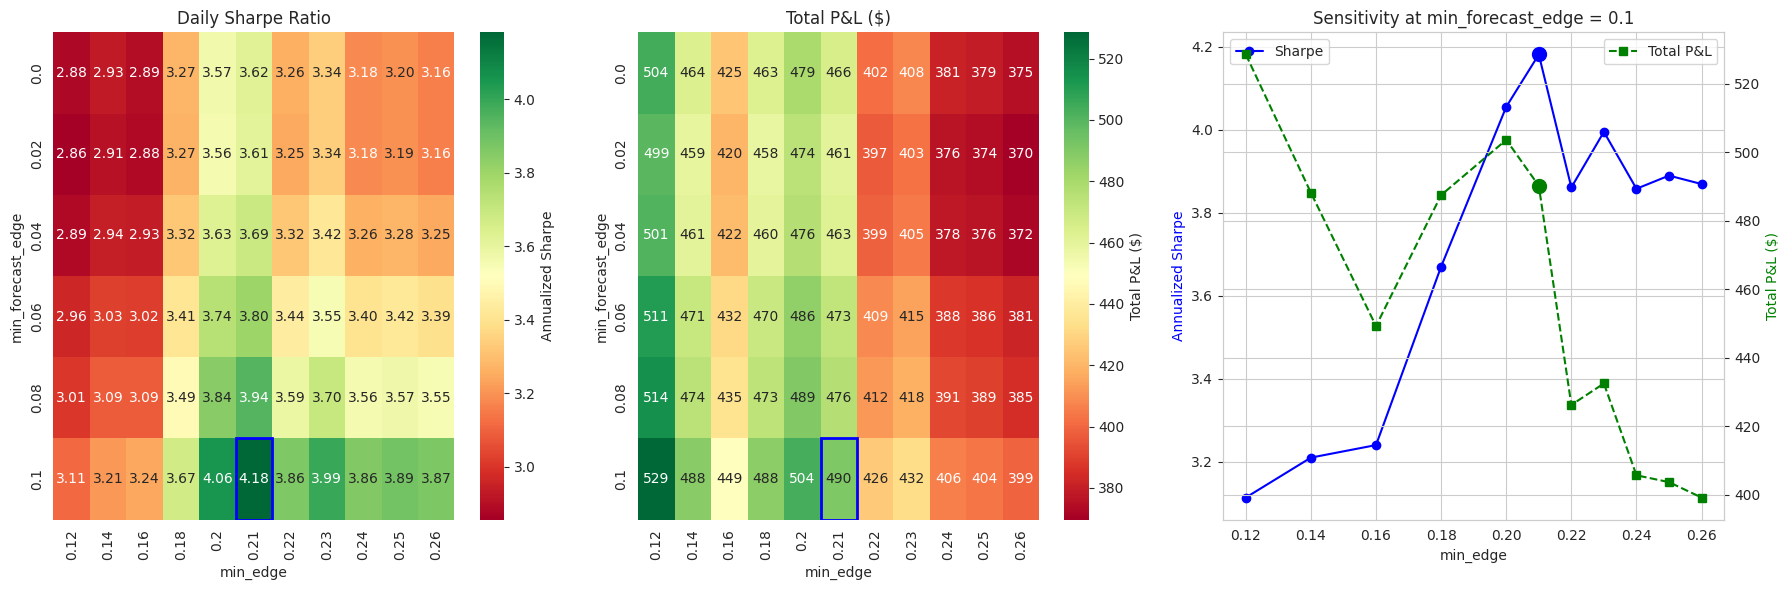
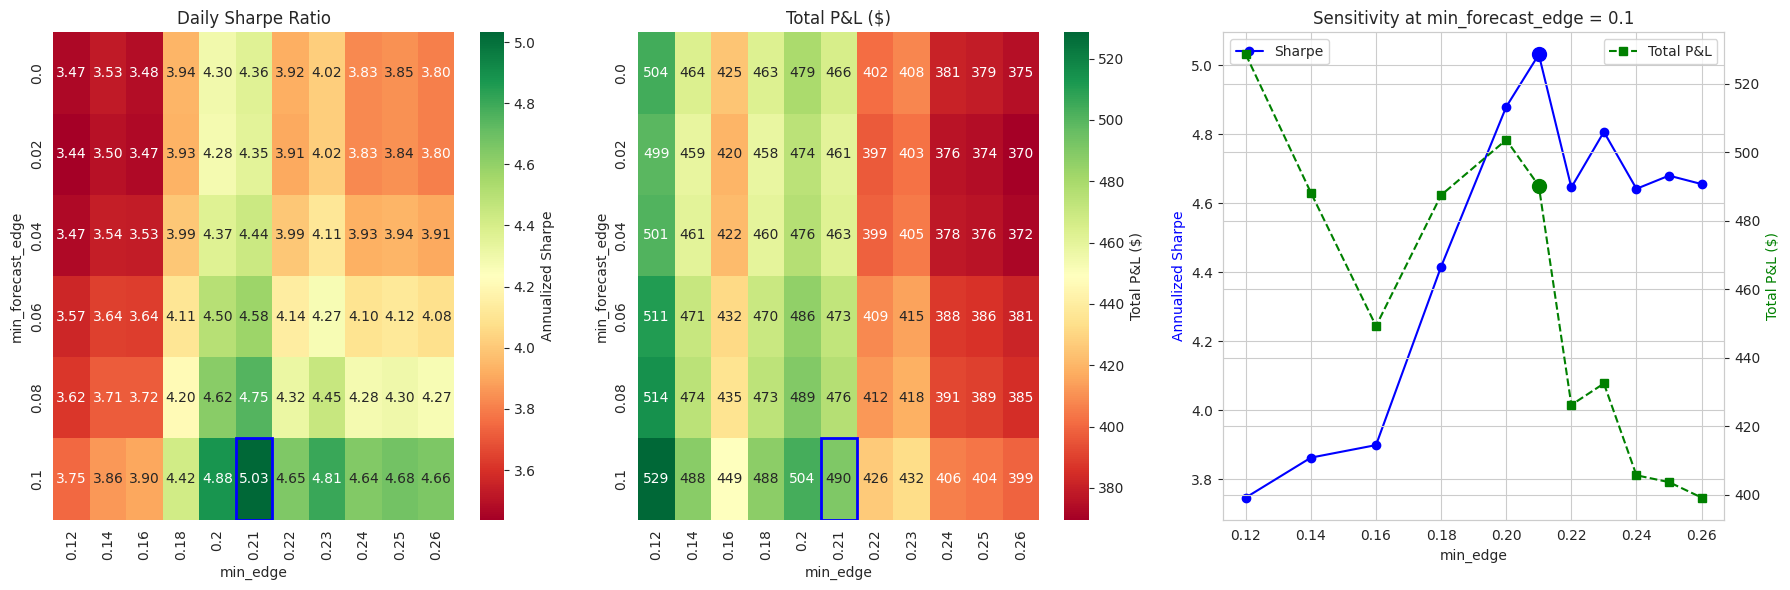
Fixed Sharpe error

diff --git a/README.md b/README.md
@@ -58,9 +58,9 @@ Every naive and baseline strategy yields negative returns over the same period. 
 
 ![Benchmark Comparison](results/plots/benchmark_comparison.png)
 
-### Parameter Robustness
+### Trading Parameter Robustness
 
-A sweep of **66 parameter configurations** shows that **all are profitable**, with annualized Sharpe ratios ranging from 2.86 to 4.18. The chosen parameters rank #1 by composite score but sit in the center of the profitable region rather than on a boundary.
+A sweep of **66 parameter configurations** shows that **all are profitable**, with annualized Sharpe ratios ranging from 3.44 to 5.03. The chosen parameters rank #2 by composite score but sit near the center of the profitable region rather than on a boundary.
 
 ![Parameter Sensitivity](results/plots/parameter_sensitivity.png)
 
